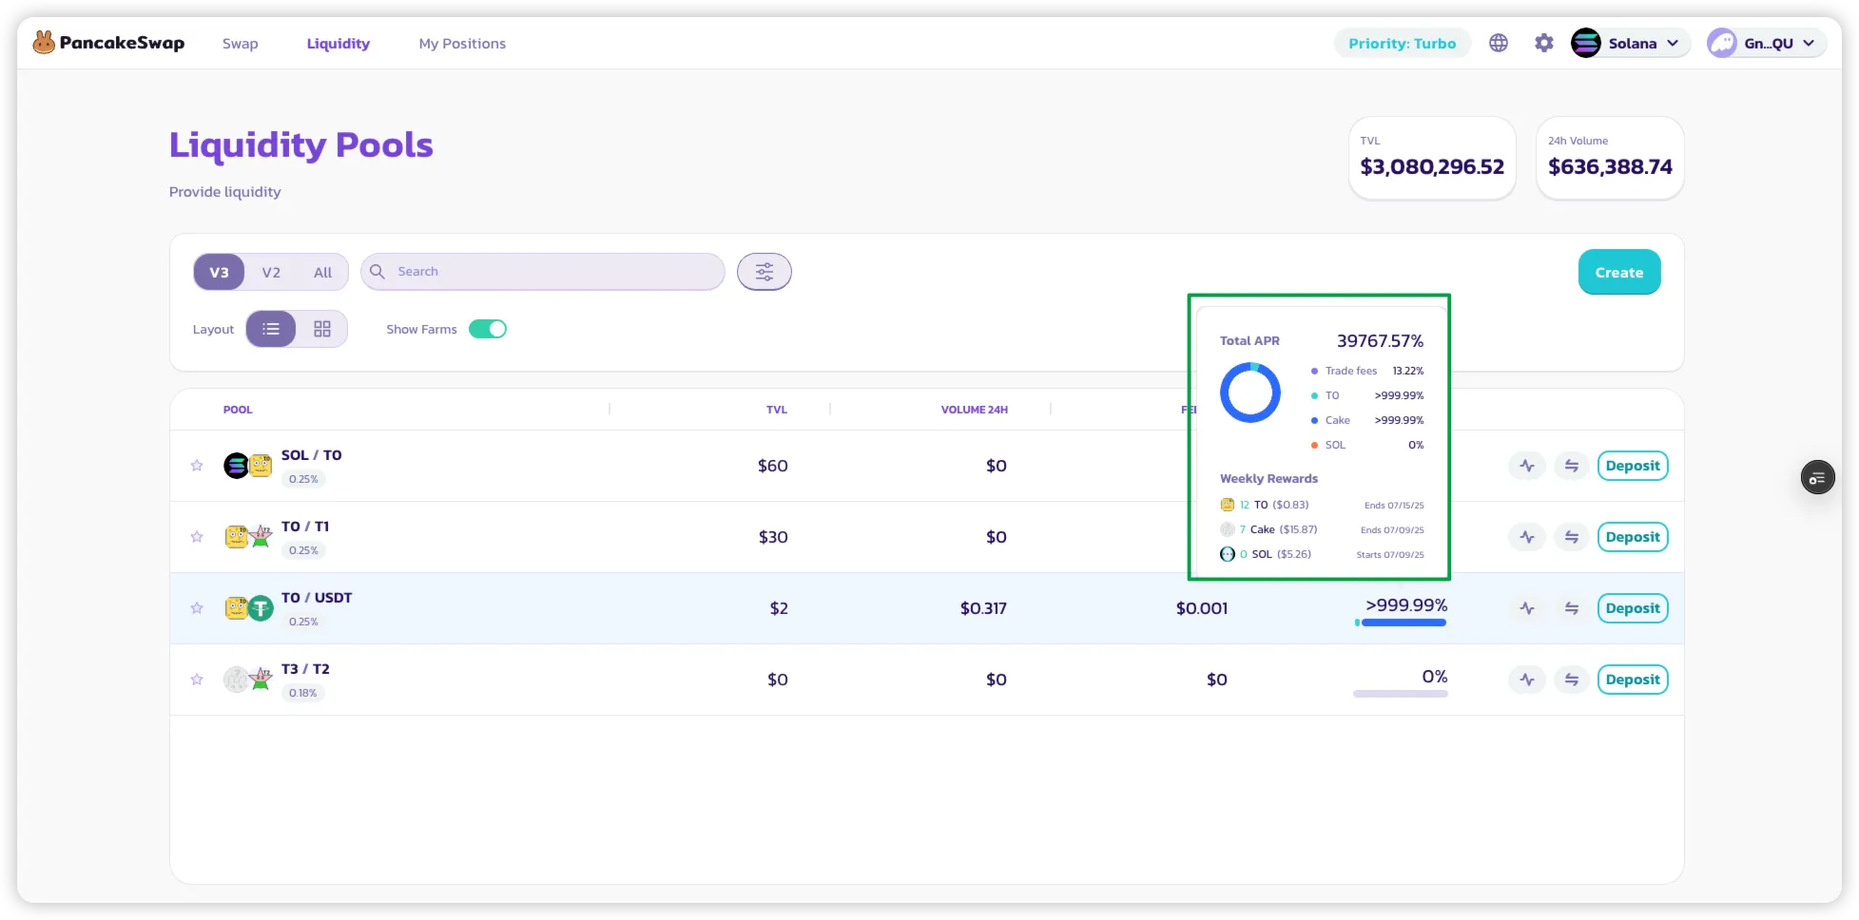
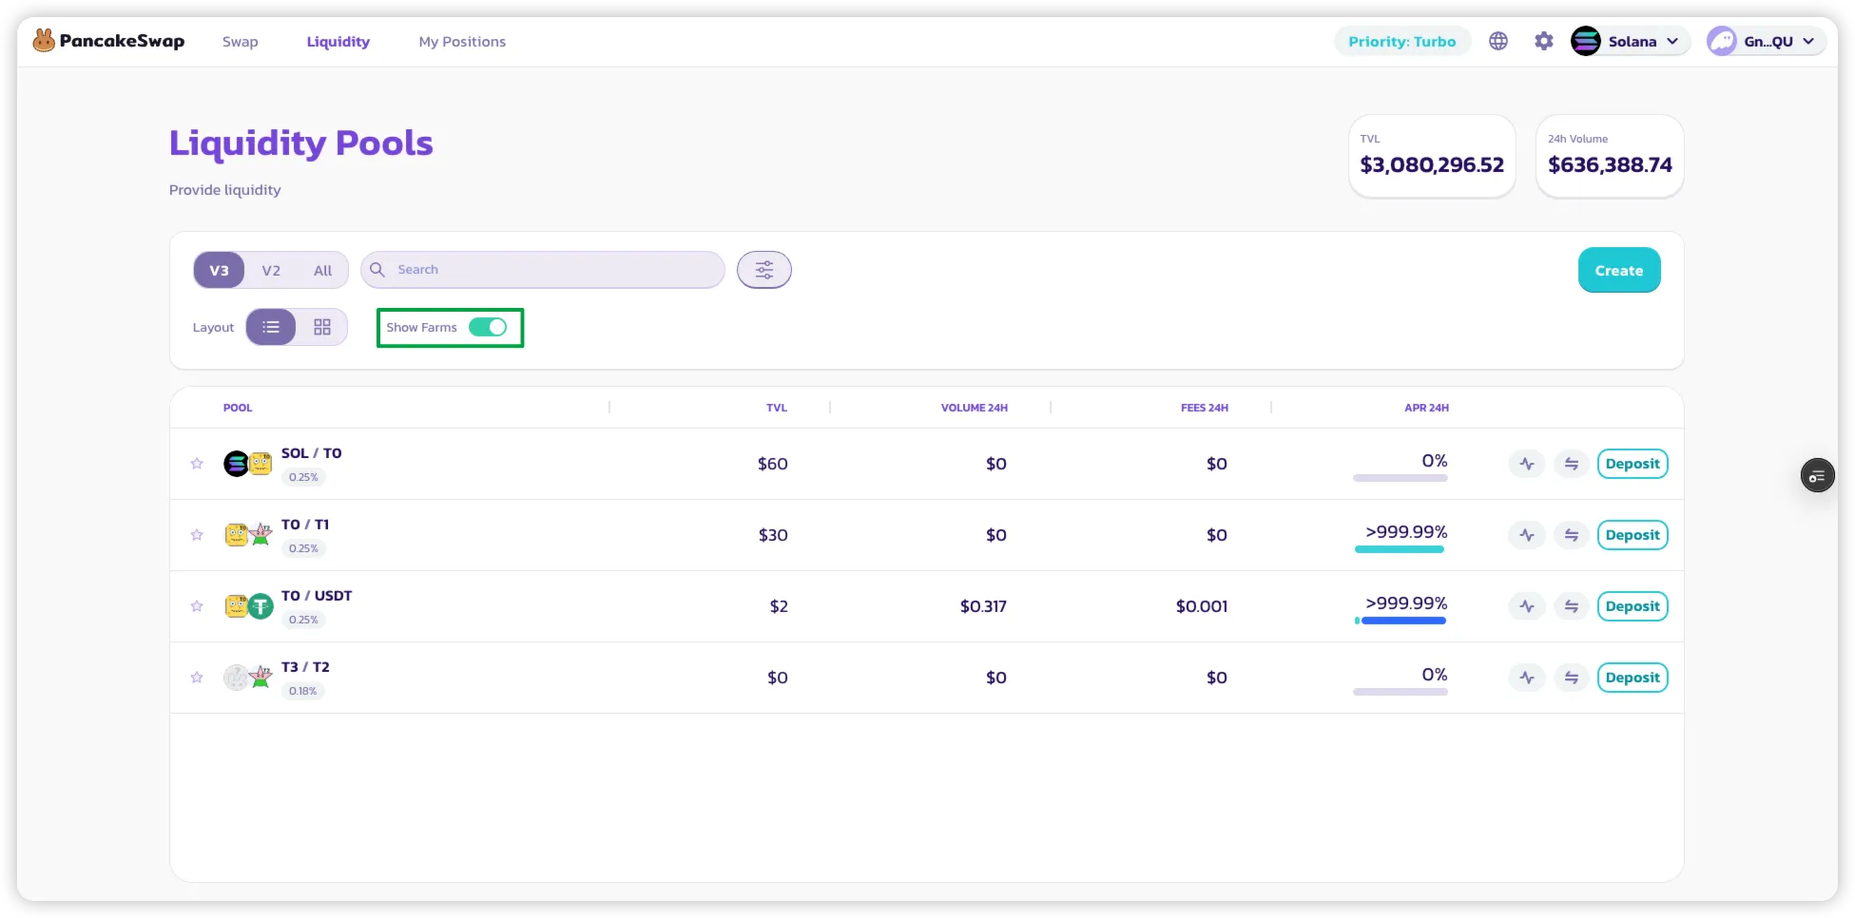
GITBOOK-1355: No subject

diff --git a/trade/trading-faq/pancakeswap-infinity-faq.md b/trade/trading-faq/pancakeswap-infinity-faq.md
@@ -1,0 +1,97 @@
+---
+description: >-
+  we understand you may have questions about our latest upgrade. We've compiled
+  this comprehensive FAQ to address all your inquiries. Let's dive in:
+---
+
+# PancakeSwap Infinity FAQ
+
+**Q1 How will PancakeSwap Infinity benefit traders and liquidity providers?**
+
+**Ans:** PancakeSwap Infinity brings a lot of advantages for both traders and liquidity providers:
+
+**1. Streamlined Operations and Gas Savings:** Through features like Singleton and Flash Accounting, PancakeSwap Infinity drastically reduces gas fees. Singleton consolidates all pools into a single contract, slashing deployment costs by 99%. Flash Accounting optimizes accounting processes by computing net balances for transactions, minimizing gas consumption.
+
+**2. Direct Benefits from Advanced Features:** The integration of hooks allows for implementing dynamic fees, custom order types, and active liquidity management modules. Liquidity providers can enjoy mitigated impermanent loss (IL), MEV protection, and access to various fee tiers, ensuring more profitable and secure trading experiences.
+
+\
+**3. Flexibility in AMM Designs:** PancakeSwap Infinity supports multiple pool types, including CLAMM and the LBAMM, allowing traders and LP to pick different pool types. This inclusive approach also allows supporting any future assets requiring new pricing curves. Check out this blog to [learn more](https://blog.pancakeswap.finance/articles/everything-you-need-to-know-about-pancake-swap-v4-what-s-in-it-for-developers-traders-liquidity-providers-and-defi-protocols)
+
+<figure><img src="../../.gitbook/assets/Screenshot 2024-03-15 at 16.16.56.png" alt=""><figcaption></figcaption></figure>
+
+**Q2** How will PancakeSwap Infinity benefit developers and defi protocols?
+
+**Ans:** PancakeSwap Infinity opens up a world of possibilities for developers and DeFi protocols.&#x20;
+
+**1. Endless Customization Possibilities:** With PancakeSwap Infinity, developers can build Hooks to introduce custom functionalities; from dynamic fees to on-chain limit orders and custom oracles. PancakeSwap Infinity supports deploying new pool types (CLAMM, LBAMM, and any other pool types in the future), enhancing capital efficiency and trading flexibility.
+
+**2. Access to Robust Liquidity and User Base:** With over 1.8 million active users and $2.1 billion in liquidity, developers and DeFi protocols have an unparalleled opportunity to tap into a vast and active community, fostering product development and adoption.
+
+**3. Revenue Generation Opportunities:** Developers can establish a consistent revenue stream through hook fees, allowing them to set fees for utilizing their hooks. By monetizing their innovations with fees, developers can contribute to the growth and development of the PancakeSwap ecosystem. Check out this blog to[ learn more](https://blog.pancakeswap.finance/articles/everything-you-need-to-know-about-pancake-swap-v4-what-s-in-it-for-developers-traders-liquidity-providers-and-defi-protocols)
+
+<figure><img src="../../.gitbook/assets/Screenshot 2024-03-15 at 09.40.42.png" alt=""><figcaption></figcaption></figure>
+
+**Q3** What improvements does PancakeSwap Infinity bring compared to v3?
+
+**Ans:** PancakeSwap Infinity introduces the capability to enhance liquidity pool functionalities with custom features without re-implementing the core protocol. It also supports the implementation of any pricing curve on the go and offers substantial gas savings for users.
+
+**Q4** Will there be any changes to the user interface or user experience in PancakeSwap Infinity?
+
+**Ans:** Once launched in Q3, users can swap on Infinity through PancakeSwap’s swapping page, just like the usual friendly experience.   For traders and liquidity providers, there will be more options to add liquidity as we support multiple pools, such as CLAMM and LBAMM, with detailed guidance provided upon launch.
+
+**Q5** How can the community get involved in testing or providing feedback for PancakeSwap Infinity?
+
+**Ans:** If you're a community member, feel free to share your feedback through our socials on [Telegram](https://t.me/PancakeSwapAnn), [Discord](https://discord.com/channels/897834609272840232/1207724381212770315), and [Twitter](https://twitter.com/PancakeSwap). If you're a developer, join our developer Discord community and share your thoughts.
+
+**Q6** Where can users find more information about PancakeSwap Infinity and stay updated on its development progress?
+
+**Ans:** Visit our official [website](https://pancakeswap.finance/v4?utm_source=v4announcementblog\&utm_medium=blog\&utm_campaign=v4announcementblog\&utm_id=v4announcementblog) , read our [whitepaper](https://github.com/pancakeswap/pancake-v4-core/blob/main/docs/whitepaper-en.pdf) , and follow us on social media for the latest updates and developments.  If you're a developer, join our developer Discord community.\
+\
+**Q7** What is the licensing mechanism for PancakeSwap Infinity?
+
+**Ans:** PancakeSwap Infinity is committed to open-source principles. Our code will be released under an open-source license, empowering developers to innovate freely. However, As a part of our [Affiliate initiative](https://forum.pancakeswap.finance/t/discussion-on-pancakeswap-affiliates-a-multichain-expansion-strategy/395), DeFi protocols forking PancakeSwap will be warmly welcomed and officially recognized by the Kitchen.\
+\
+**Q8** How does PancakeSwap Infinity reduce gas fees?
+
+**Ans:** PancakeSwap Infinity leverages the Singleton and Flash accounting mechanisms to reduce gas fees significantly. By consolidating all pools into a single contract (singleton), multi-pool transactions are simplified, making them more cost-effective. Flash Accounting replaces individual transfers with net balances, computed collectively at the end of each transaction, resulting in substantial gas savings. ERC-6909 further reduces gas for frequent users by letting users keep their funds within the protocol and use them when required, eliminating transfers to/from their wallets.\
+\
+**Q9** What are Hooks in PancakeSwap Infinity, and how do they enable innovation?
+
+**Ans:** Hooks are customizable add-ons that enhance liquidity pool functionality, allowing developers to introduce custom features and fee management options. Deployed externally, Hooks can execute predefined logic during key pool actions, offering endless possibilities, including dynamic fees, order types, custom oracles, and active liquidity management strategies. Check out this blog to [learn more](https://blog.pancakeswap.finance/articles/why-should-developers-build-on-pancake-swap-v4-and-how-to-build-hooks)\
+\
+**Q10** What opportunities does PancakeSwap Infinity present for developers?
+
+**Ans:** Developers can build innovative solutions, generate revenue through hook fees, and tap into PancakeSwap's extensive user base and deep liquidity. Read our dedicated [blog post](https://blog.pancakeswap.finance/articles/why-should-developers-build-on-pancake-swap-v4-and-how-to-build-hooks) on why developers should build on PancakeSwap.
+
+**Q11** How does PancakeSwap Infinity contribute to the broader DeFi ecosystem?
+
+**Ans:** PancakeSwap Infinity aims to address the shortcomings of current AMMs, enhance the DEX experience, and evolve into the highest-functionality DeFi platform supported by our open-source approach. Read our Head Chef, Chef Mochi's [vision for Infinity](https://blog.pancakeswap.finance/articles/chef-mochi-s-vision-for-pancake-swap-v4-a-leap-forward-in-de-fi-innovation) to learn more\
+\
+**Q12** Where can we find the hook template repository?
+
+**Ans:** Hooks template can be found at [https://github.com/pancakeswap/infinity-hooks-template](https://github.com/pancakeswap/infinity-hooks-template) and example hooks at [https://github.com/pancakeswap/infinity-hooks](https://github.com/pancakeswap/infinity-hooks)\
+\
+**Q13** Can you explain the life cycles of hooks and their examples?
+
+**Ans:** Hooks can be implemented before / after 5 key actions namely initialize, swap, addLiquidity, removeLiquidity, donate. For instance, when a user initiates a swap, the PoolManager contract checks if a beforeSwap hook callback exists. If it does, the logic under the beforeSwap method in the hook contract is executed; otherwise, the swap proceeds as usual. After the swap is completed, the same process occurs for the afterSwap callback.\
+\
+**Q14:** Do we need to perform address mining to ensure hooks are deployed at a specific address?\
+**Ans:** Hooks can be deployed on any address like other contracts. Callback permissions are set at PoolKey. For more info, please see the faq for hooks here&#x20;
+
+[https://developer.pancakeswap.finance/contracts/infinity/overview/custom-layer-hook](https://developer.pancakeswap.finance/contracts/infinity/overview/custom-layer-hook)\
+\
+**Q15:** How can we verify a hook contract on etherscan?&#x20;
+
+**Ans:** If you are using foundry, you can refer to the foundry guide here [https://book.getfoundry.sh/reference/forge/forge-verify-contract](https://book.getfoundry.sh/reference/forge/forge-verify-contract) \
+Or if you are using hardhat, refer to the hard guide here [https://hardhat.org/hardhat-runner/docs/guides/verifying](https://hardhat.org/hardhat-runner/docs/guides/verifying)\
+\
+**Q16:** Should we use foundry or hardhat for hook development?
+
+**Ans:** The template [https://github.com/pancakeswap/infinity-hooks-template](https://github.com/pancakeswap/infinity-hooks-template) is based on foundry; thus, we advise using foundry. Besides that, the foundry has been growing in popularity!&#x20;
+
+**Q17:** What are pool keys?&#x20;
+
+**Ans:** PoolKey is a struct that describes each pool. See more [here](https://developer.pancakeswap.finance/contracts/infinity/overview/amm-layer-poolmanager).\
+\
+\
+PancakeSwap Infinity represents a significant milestone in the DeFi space, offering unparalleled benefits for traders, developers, liquidity providers, and the broader community. We're excited to embark on this journey with you and look forward to shaping the future of DeFi together. We hope this FAQ has answered your questions about PancakeSwap Infinity. If you have any further questions, feel free to reach out to us via  ([Twitter](https://twitter.com/PancakeSwap), [Discord](https://discord.com/channels/897834609272840232/1207724381212770315), and [Telegram](https://t.me/PancakeSwap)) or check our Dev [documentation](https://developer.pancakeswap.finance).

diff --git a/trade/pancakeswap-x/how-to-use-pancakeswap-x.md b/trade/pancakeswap-x/how-to-use-pancakeswap-x.md
@@ -1,0 +1,43 @@
+# How to use PancakeSwap X
+
+PancakeSwap X is built directly into the familiar “Swap” interface and enabled for all users by default. To use PancakeSwap X, simply head to the [Swap](https://pancakeswap.finance/swap) page and start trading.
+
+### Enable PancakeSwap X
+
+<figure><img src="../../.gitbook/assets/image (470).png" alt="" width="375"><figcaption></figcaption></figure>
+
+In case X is not enabled. Click the settings icon in “Route” to open the settings modal, and then click “Customise Routing” to bring up the routing preference.
+
+Within the “Customize Routing” modal, there will be a new switch for toggling PancakeSwap X for trade routes. Simply click or tap to toggle it on.
+
+<figure><img src="../../.gitbook/assets/image (471).png" alt="" width="375"><figcaption></figcaption></figure>
+
+Once toggled, you may head back to the main Swap page. If the current Swap is available for PancakeSwap X, an indicator will show up in the “Route” section. With price impact and fees all being 0.
+
+Please note that PancakeSwap X is not available for all the swaps. Its availability is subject to input, and output tokens, as well as the trade size and the network. If the swap can not be processed by PancakeSwap X, it will be routed through the AMM liquidity pools.
+
+When a trade is going through PancakeSwap X, it will be highlighted in the “Route” section.
+
+### Submit Order
+
+<figure><img src="../../.gitbook/assets/image (472).png" alt="" width="375"><figcaption></figcaption></figure>
+
+To submit the order, click “Swap”, then verify all the parameters in the “Confirm Swap” modal. If everything looks good, click “Confirm Swap” to continue.
+
+If you haven’t approved the input token, your wallet will prompt you to approve. Please note that although swapping through PancakeSwap X does not require any gas token, approving for token spending does require gas.
+
+After token approval, another wallet popup will appear to ask for signing on the order. Simple click “Confirm” to proceed. No gas cost or onchain transaction will be involved.
+
+Once the order is submitted, a modal with progress bar will appear. You may close the modal, while your order will continue to be filled in the background.
+
+<figure><img src="../../.gitbook/assets/image (473).png" alt="" width="367"><figcaption></figcaption></figure>
+
+Note that unlike regular AMM DEX liquidity pool swaps, once a PancakeSwap X order is submitted, it will take some time for the liquidity providers to respond and fill your order. It could take up to 2 minutes until the order is successfully filled.
+
+### Track your order status
+
+To track your order status, open the wallet modal from wallet dropdown on top right. Click the “Transaction” button to bring up the list of orders. To see more detail of a specific order, simply click and open up the detail modal.
+
+<figure><img src="../../.gitbook/assets/image (474).png" alt="" width="375"><figcaption></figcaption></figure>
+
+Once an order is successfully filled, you will see a green check mark on the order, while the purchased tokens being sent to your wallet automatically.

diff --git a/trade/pancakeswap-x/rwas.md b/trade/pancakeswap-x/rwas.md
@@ -1,0 +1,26 @@
+# RWAs
+
+PancakeSwap X supports real-world assets onchain to BNB Chain at scale. Users can trade 100+ tokenized stocks, bonds and ETFs directly on PancakeSwap powered by Ondo Finance.
+
+### What is Ondo Finance?
+
+Ondo Finance is a leading provider of tokenized real-world assets (RWAs), including U.S. stocks, ETFs, Treasuries, and tokenized assets. All assets are fully backed 1:1 by corresponding traditional securities held with licensed custodial broker-dealers and made available to eligible users through compliant and transparent infrastructure.
+
+### The Opportunity: Real-World Assets, Now Onchain
+
+Tokenized assets represent one of the fastest-growing categories in both DeFi and the broader blockchain ecosystem:
+
+* The global tokenized assets market has seen triple-digit growth year-over-year
+* Tokenized RWAs are projected to surpass $10 trillion in value by 2030, with tokenized assets playing a key role in that growth
+
+By bringing these assets onchain via PancakeSwapX, PancakeSwap unlocks powerful new use cases for users on BNB Chain, bridging traditional finance with decentralized infrastructure.
+
+You can view the full list of eligible Ondo Finance tokenized assets [**here**](https://tokenlists.org/token-list?url=https://tokens.pancakeswap.finance/ondo-rwa-tokens.json).
+
+{% hint style="info" %}
+Note: Tokenized assets offered through Ondo Finance on PancakeSwap are not available in certain jurisdictions due to regulatory requirements. Please refer to this [list](https://docs.ondo.finance/ondo-global-markets/eligibility) of supported countries to check your eligibility.
+{% endhint %}
+
+{% hint style="success" %}
+**You can access these assets directly from Swap page on PancakeSwap.**
+{% endhint %}

diff --git a/trade/pancakeswap-x/faqs.md b/trade/pancakeswap-x/faqs.md
@@ -1,0 +1,37 @@
+# FAQs
+
+#### Which network is currently supported?
+
+PancakeSwap X is live on Arbitrum and Ethereum, supporting crypto tokens, and on BNB Chain, it supports real-world assets (RWAs) like tokenised stocks, bonds, and ETFs.
+
+#### Is PancakeSwap X on by default?
+
+Yes.
+
+#### Why is my swap not going through PancakeSwap X?
+
+PancakeSwap X is a part of the “Swap” product. The Swap interface automatically compare and choose the most optimal liquidity source with the best price for you. Therefore PancakeSwap X will be utilised only when:
+
+* The current network supports PancakeSwap X
+* The current trading pair supports PancakeSwap X
+* The pricing is better on PancakeSwap X than other liquidity sources
+
+If your order is not going through PancakeSwap X, you are not missing anything, as you are already enjoying the best price.
+
+#### Why is my swap failing with PancakeSwap X?
+
+When trading via PancakeSwap X, orders are actively filled by liquidity providers. Therefore, in some rare cases, often due to rapid market movements, liquidity providers may fail to fill the orders in time, resulting in failed orders.
+
+In this case, simply retry by re-submitting the order. If the error persists, please disable the PancakeSwap X from the settings.
+
+#### Is there any fee when using PancakeSwap X?
+
+For now, PancakeSwap X does not charge any fee. Fee rate is subject to change in the future.
+
+#### How does PancakeSwap X work without gas fees?
+
+Orders are sent to a network of fillers off-chain who bear the gas cost while executing the order on-chain.
+
+#### What happens if a transaction fails on PancakeSwap X?
+
+Nothing to worry. Your funds are safe in your wallet.&#x20;

diff --git a/SUMMARY.md b/SUMMARY.md
@@ -159,6 +159,10 @@
   * [Farms](trade/pancakeswap-infinity/farms.md)
   * [How-To Guides](trade/pancakeswap-infinity/how-to-guides.md)
   * [FAQs](trade/pancakeswap-infinity/faqs.md)
+* [✖ PancakeSwap X](trade/pancakeswap-x/README.md)
+  * [How to use PancakeSwap X](trade/pancakeswap-x/how-to-use-pancakeswap-x.md)
+  * [RWAs](trade/pancakeswap-x/rwas.md)
+  * [FAQs](trade/pancakeswap-x/faqs.md)
 * [🎯 Limit & TWAP Orders](trade/limit-orders/README.md)
   * [How to use Limit Orders](trade/limit-orders/how-to-use-limit-orders.md)
   * [How to use Limit Orders](trade/limit-orders/how-to-use-limit-orders-1.md)
@@ -191,7 +195,7 @@
 * [💳 Buy Crypto](trade/buy-crypto.md)
 * [❓ Trading FAQ](trade/trading-faq/README.md)
   * [Swap FAQ](trade/trading-faq/swap-faq.md)
-  * [v4 FAQ](trade/trading-faq/v4-faq.md)
+  * [PancakeSwap Infinity FAQ](trade/trading-faq/pancakeswap-infinity-faq.md)
   * [Limit Orders and TWAP FAQ](trade/trading-faq/limit-orders-faq.md)
 
 ## Bridge
@@ -257,7 +261,7 @@
 ## Trading Tools
 
 * [🛡 PancakeSwap MEV Guard](trading-tools/pancakeswap-mev-guard.md)
-* [PancakeSwap Auto Slippage](trading-tools/pancakeswap-auto-slippage/README.md)
+* [🎯 PancakeSwap Auto Slippage](trading-tools/pancakeswap-auto-slippage/README.md)
   * [How to Set Slippage on PancakeSwap](trading-tools/pancakeswap-auto-slippage/how-to-set-slippage-on-pancakeswap.md)
 * [Social Login](trading-tools/social-login/README.md)
   * [Social login: How-To Guide](trading-tools/social-login/social-login-how-to-guide.md)

diff --git a/trade/pancakeswap-x/README.md b/trade/pancakeswap-x/README.md
@@ -1,0 +1,32 @@
+---
+layout:
+  width: default
+  title:
+    visible: true
+  description:
+    visible: true
+  tableOfContents:
+    visible: true
+  outline:
+    visible: true
+  pagination:
+    visible: true
+  metadata:
+    visible: true
+---
+
+# ✖ PancakeSwap X
+
+PancakeSwap X introduces a whole new way to trade your favourite assets on PancakeSwap by aggregating a wide range of third-party liquidity and building straight into the popular PancakeSwap dApp. It enables more assets to trade, deeper liquidity, gas-less swaps, and much more:
+
+* Better prices
+* More tokens to swap
+* Built-in MEV protection
+* Gas-free swaps
+
+{% hint style="success" %}
+**PancakeSwap X is live on Arbitrum and Ethereum, supporting crypto tokens, and on BNB Chain, it supports real-world assets (RWAs) only.**
+{% endhint %}
+
+> **Looking to integrate? Check out the technical guide for PancakeSwap X integration** [**here**](https://www.notion.so/PCSX-Tech-Integration-Guide-0eb33e93295644e9855ec2c34b58b0c4?source=copy_link)**.**
+

diff --git a/earn/yield-farming/solana-farming/README.md b/earn/yield-farming/solana-farming/README.md
@@ -14,7 +14,7 @@ Farming lets you earn additional rewards on top of standard liquidity provider (
 
 *   On the **Pool List** page, toggle the **“Show Farm only”** filter to display only pools that offer farming rewards.
 
-    <figure><img src="../../../.gitbook/assets/image.png" alt=""><figcaption></figcaption></figure>
+    <figure><img src="../../../.gitbook/assets/image (1).png" alt=""><figcaption></figcaption></figure>
 
 ### 2. View APR Breakdown
 
@@ -25,7 +25,7 @@ Farming lets you earn additional rewards on top of standard liquidity provider (
     * Additional rewards from farming incentives.
     * An **estimated weekly reward** in tokens for that pool.
 
-    <figure><img src="../../../.gitbook/assets/image (1).png" alt=""><figcaption></figcaption></figure>
+    <figure><img src="../../../.gitbook/assets/image (1) (4).png" alt=""><figcaption></figcaption></figure>
 
 ### 3. Start Earning Farming Rewards
 

diff --git a/welcome-to-pancakeswap/info.md b/welcome-to-pancakeswap/info.md
@@ -2,9 +2,9 @@
 
 ## Info Page&#x20;
 
-View PancakeSwap's native analytics site here: [https://pancakeswap.info](https://pancakeswap.info)
+View PancakeSwap's native analytics site here: [https://pancakeswap.finance/info](https://pancakeswap.finance/info)
 
-![](<../.gitbook/assets/image (9) (2).png>)
+<figure><img src="../.gitbook/assets/image.png" alt=""><figcaption></figcaption></figure>
 
 All core metrics data are sourced from the PCS internal Indexer, which, in turn, gathers data from events triggered when the contract is called.&#x20;
 

diff --git a/welcome-to-pancakeswap/contact-us/business-partnerships/initial-farm-offerings-ifos.md b/welcome-to-pancakeswap/contact-us/business-partnerships/initial-farm-offerings-ifos.md
@@ -28,4 +28,4 @@ For more information about our token launchpad offerings (“[Initial Farm Offer
 
 At every step of the process, the team is here to help – we understand that for founders and their teams, the TGE is extremely critical, and we leave nothing to chance.
 
-<figure><img src="../../../.gitbook/assets/image (1) (4).png" alt=""><figcaption></figcaption></figure>
+<figure><img src="../../../.gitbook/assets/image (1) (4) (1).png" alt=""><figcaption></figcaption></figure>

diff --git a/trading-tools/pancakeswap-auto-slippage/README.md b/trading-tools/pancakeswap-auto-slippage/README.md
@@ -1,4 +1,4 @@
-# PancakeSwap Auto Slippage
+# 🎯 PancakeSwap Auto Slippage
 
 PancakeSwap has introduced Auto Slippage to make trading easier and more efficient. Auto Slippage automatically adjusts the slippage for you based on current market conditions, helping to prevent failed trades and reduce the risk of losing money due to slippage errors.
 

diff --git a/trade/pancakeswap-exchange/market-maker-integration.md b/trade/pancakeswap-exchange/market-maker-integration.md
@@ -1,3 +1,7 @@
+---
+hidden: true
+---
+
 # Market Maker Integration
 
 <figure><img src="https://lh3.googleusercontent.com/pHBaGjeEHE3pCfmOWyBxvRThu0HiDK9K3jAhAN9dLka4c3zBDij-n0e9yY4LA6YjqYj2m4tBPjfoGoZunt2VCwTcDqtlWU5Km61x2IQ_T66olebgLn-yy1VodKww4Fn2YQuR_fwcJSAbR0MgsHkD0RY" alt=""><figcaption></figcaption></figure>

diff --git a/welcome-to-pancakeswap/how-to-guides/get-started/using-pancakeswap-without-centralized-exchanges.md b/welcome-to-pancakeswap/how-to-guides/get-started/using-pancakeswap-without-centralized-exchanges.md
@@ -2,6 +2,7 @@
 description: >-
   You don't need an account with Binance, Coinbase, Kraken, Huobi, OKEx or any
   other centralized exchange to start using PancakeSwap!
+hidden: true
 ---
 
 # Using PancakeSwap without Centralized Exchanges
